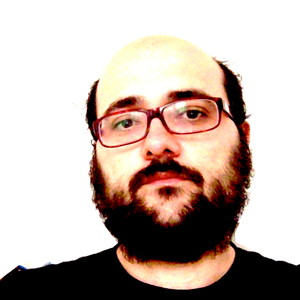
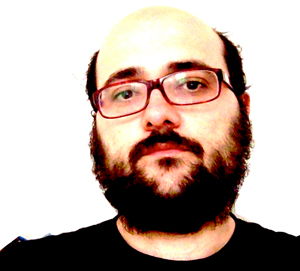
anchors can be sonified

diff --git a/src/js/main.js b/src/js/main.js
@@ -3,12 +3,11 @@ window.onload = function(){
 
   initAudio();
 
-  initText($('.loadingText p'));
-  var jqElem = $('.loadingText p');
+  initText($('p'));
+  var jqElem = $('p');
   var lead  = 1.2;
 
-  var playLength = sonify(jqElem,lead);
-  ditherImages();
+  ditherImages(undefined,function(){sonify(jqElem,lead);});
 };
 
 function sonify(jqElem,lead) {
@@ -16,7 +15,7 @@ function sonify(jqElem,lead) {
   var nextElem = null;
   if(jqElem.length>1){
     var auxElem = jqElem[0];
-    nextElem = jqElem.nextAll();
+    nextElem = jqElem.slice(1);
     jqElem = $(auxElem);
   }
   var text = jqElem.text();
@@ -26,7 +25,7 @@ function sonify(jqElem,lead) {
 
   audioBufferNode.start();
 
-  showText(jqElem.children('span'),playLength-lead,lead);
+  showText(jqElem.children('.unloaded'),playLength-lead,lead);
 
   if(nextElem != null){
     setTimeout(function(){
@@ -44,35 +43,31 @@ function initText(domElement){
 
   domElement = $(domElement);
 
-  if(domElement.size()>1){
-    for(var i=0;i<domElement.size();i++){
-      initText(domElement.get(i));
+  if(domElement.length>1){
+    for(var i=0;i<domElement.length;i++){
+      initText(domElement[i]);
     }
     return
   }
 
-  var text = domElement.text().trim();
-  text = text.replace(/  +|\n/g, ' ');
-
-  var words = text.split(' ');
-  text = text.replace(/\s/g,'');
-  var lastIndex = 0;
-  $(domElement).empty();
-  //puts every word in a span
-  $.each(words, function(i, word) {
-      var index = text.indexOf(word,lastIndex);
-      lastIndex = index + word.length;
-      var wordDom;
-      if(word == '<br>'){
-        wordDom = $('<br>');
+  var elements = domElement.contents().each(
+    function(i){
+      if(this.nodeType == 3){
+        var self = $(this);
+        var text = self.text().trim().replace(/  +|\n/g, ' ');
+        var words = text.split(' ');
+        $.each(words, function(i, word) {
+            var wordDom;
+            wordDom = $('<span>').text(word).addClass('unloaded');
+            self.before(wordDom);
+            self.before(' ');
+        });
+        self.remove();
       }else{
-        wordDom = $('<span>').text(word).data('start',index).data('end',lastIndex).addClass('unloaded');
+        $(this).addClass('unloaded');
+        $(this).after(' ');
       }
-      $(domElement).append(wordDom);
-      $(domElement).append(' ');
-
-  });
-  domElement.data('text',text);
+    });
 }
 
 

diff --git a/src/js/ditherImage.js b/src/js/ditherImage.js
@@ -1,19 +1,23 @@
 //http://stackoverflow.com/a/12423733/2205297
-function ditherImages(selector){
+function ditherImages(selector,callback){
 
   if(selector == undefined){
     selector = 'img';
   }
+  var jqElem = $(selector);
 
-  $(selector).each(function(index,domElement){ditherImage(domElement);});
+  ditherImage(jqElem,callback);
 }
 
-function ditherImage(domElement){
+function ditherImage(domElement,callback){
 
   var canvas = document.createElement('canvas');
   var ctx    = canvas.getContext('2d');
-  var img    = $(domElement);
-
+  domElement = $(domElement);
+  var img    = domElement;
+  if(domElement.length>1){
+    img = $(domElement[0]);
+  }
   if(!img.is('img')){
     console.log('not image');
     return;
@@ -22,7 +26,7 @@ function ditherImage(domElement){
   //when loaded, not before
   img.load( function() {
 
-    var resolution = 2;
+    var resolution = 3;
 
     canvas.width  = this.clientWidth / resolution ;
     canvas.height = this.clientHeight/ resolution ;
@@ -178,6 +182,12 @@ function ditherImage(domElement){
           setTimeout(putPixel,1);
       }else{
         audioBufferNode.stop();
+
+        if(domElement.length>1){
+          ditherImage(domElement.slice(1),callback);
+        }else if(callback !== undefined){
+          callback();
+        }
         console.log('drawnPixels: '+drawPixels);
       }
 

diff --git a/src/index.html b/src/index.html
@@ -10,16 +10,14 @@
   </head>
   <body>
     <div class="wrap">
+
       <img src='img/martin.jpg'/>
-      <a href="bio.html">Home</a> - <a href="index.html">Works</a> <a href="bio.html">Bio</a> - <a href="#">Works</a>
       <div class="loadingText" >
-        <p>Welcome to my 8bit personal webpage!</p>
-        <p>Please keep in mind that this is some sort of media archeology
-        experiment while I finish my boring (but accesible) Wordpress standard web.</p>
-        <p> - All the text is sonified using spectrum cassetes encoding</p>
-        <p> - All images are dithered and downgraded to use the Spectrum color pallete</p>
-        <p> All these tasks are done in realtime in your computer / mobile device. What has no sense at all</p>
-        <p> Nevertheless please explore the latest projects I've been working on and my sort Bio.</p>
+        <p><a href="bio.html">Bio</a> - <a href="#">Works</a></p>
+        <p>Welcome to my webpage!</p>
+        <p>Martín Nadal is an artist/developer based in Linz and studying the Interface Cultures programm at KunstUni.</p>
+        <p>In the past years he has collaborated in a variety of projects and taught some workshops related to art and technology.</p>
+        <p>martin@muimota.net</p>
       </div>
     </div>
   </body>

diff --git a/src/css/style.css b/src/css/style.css
@@ -15,32 +15,48 @@ a,a:visited{text-decoration: none;
 }
 a:hover{color:red;}
 
-span.loading{
+.loading{
   visibility: visible;
   color:#CCC;
   background: black;
 }
-
-span.loaded{
+a.loading{
+  color:#CCC;
+  background: red;
+}
+a.loaded{
+  color:red;
+}
+a.loaded:hover{
+  color:#CCC;
+  background:red;
+}
+.loaded{
   visibility: visible;
 }
 
-span{
+.unloaded{
   visibility: hidden;
 }
 
 .wrap{
-  width:400px;
-  font-size: 1em;
+  width:500px;
+  font-size: 100%;
   margin: 0 auto;
 }
+@media (min-width: 600px) {
+  .wrap{
+    width:40%;
+  }
+}
+
 .wrap > img{
-  width:400px;
+  width:100%;
 }
 h3{
   text-transform: uppercase;
 }
 
 img{
-  visibility: hidden; 
+  visibility: hidden;
 }

diff --git a/src/bio.html b/src/bio.html
@@ -13,6 +13,7 @@
       <img src='img/calculator.jpg'/>
       <a href="#">Bio</a> - <a href="#">Works</a>
       <div class="loadingText" >
+        <p><a href="#">Bio</a> - <a href="#">Works</a><p>
         <p>Martín Nadal is an artist/developer based in Linz and studying the Interface Cultures programm at KunstUni.</p>
         <p>In the past years he has collaborated in a variety of projects and taught some workshops related to art and technology.</p>
         <p>He is interested in illustration and cinematography.</p>

diff --git a/src/js/sonify.js b/src/js/sonify.js
@@ -31,7 +31,7 @@ function initAudio(){
 function audioBitarray(bitarray,lead){
 
   var frameCount = 0;
-  var bitBuffers = [buffers['2044'],buffers['1022']];
+  var bitBuffers = [buffers['1022'],buffers['2044']];
   var leadFrames = 0;
 
   if (lead > 0) {
